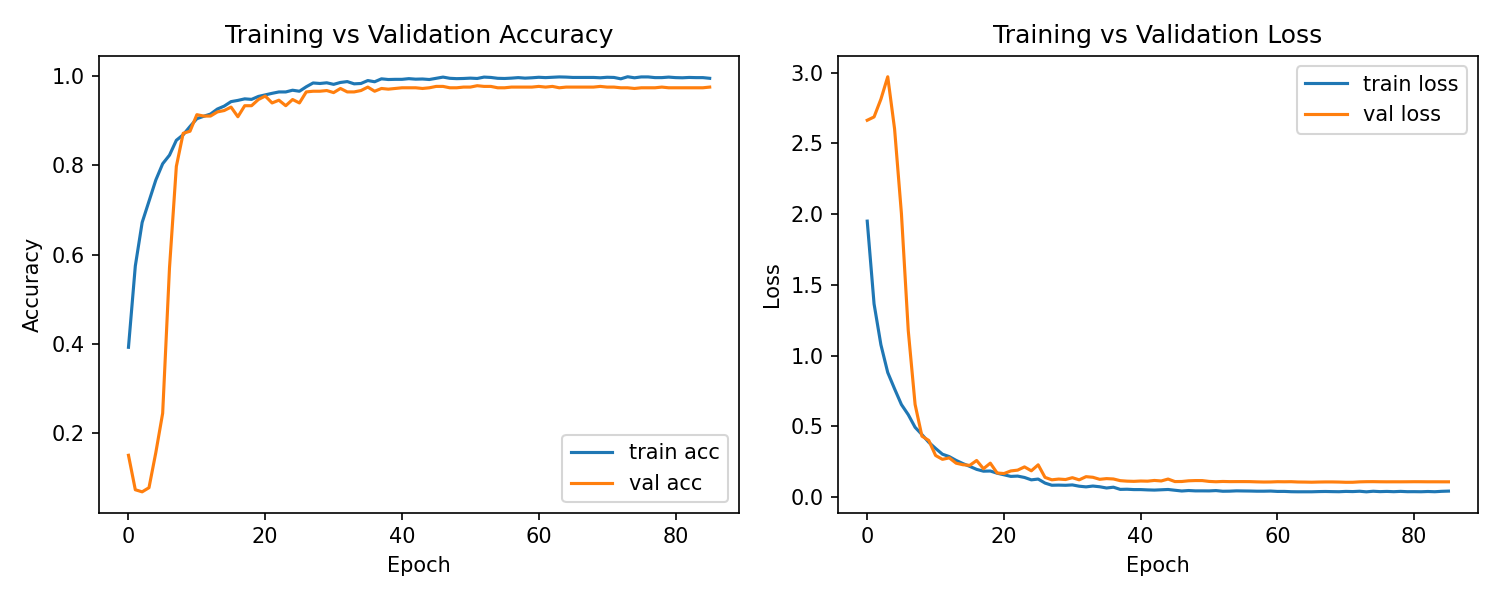
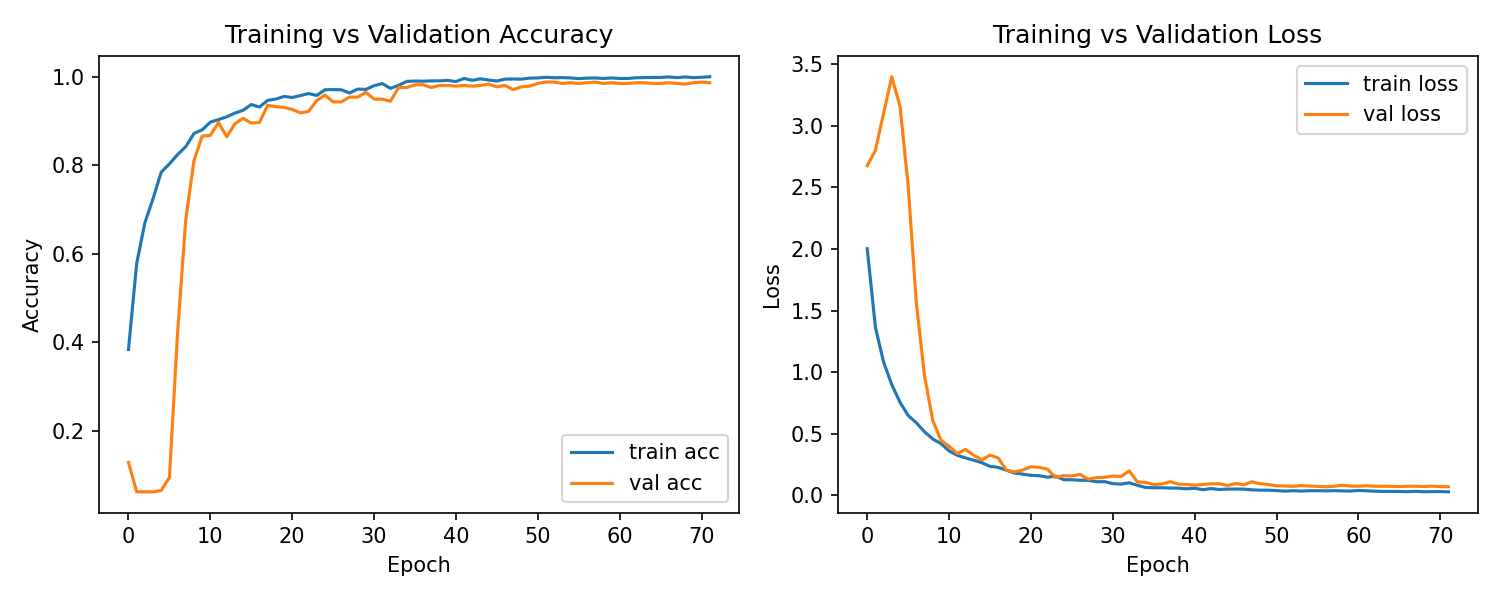
pridany unknown natrenovany

diff --git a/src/cnn/collect_guided_cnn.py b/src/cnn/collect_guided_cnn.py
@@ -11,28 +11,28 @@ SAMPLES_PER_GESTURE = 80          # number of samples per gesture
 # LIST OF GESTURES (LABEL, HAND, DESCRIPTION)
 GESTURES = [
     # LEFT HAND
-    {"label": "FIST_L",     "hand": "Left",  "desc": "LEFT - Fist"},
-    {"label": "OPEN_L",     "hand": "Left",  "desc": "LEFT - Open hand"},
-    {"label": "PEACE_L",    "hand": "Left",  "desc": "LEFT - Peace V"},
-    {"label": "OK_L",       "hand": "Left",  "desc": "LEFT - OK sign"},
-    {"label": "POINT_L",    "hand": "Left",  "desc": "LEFT - Point finger"},
-    {"label": "MIDDLE_L",   "hand": "Left",  "desc": "LEFT - Middle finger"},
+    # {"label": "FIST_L",     "hand": "Left",  "desc": "LEFT - Fist"},
+    # {"label": "OPEN_L",     "hand": "Left",  "desc": "LEFT - Open hand"},
+    # {"label": "PEACE_L",    "hand": "Left",  "desc": "LEFT - Peace V"},
+    # {"label": "OK_L",       "hand": "Left",  "desc": "LEFT - OK sign"},
+    # {"label": "POINT_L",    "hand": "Left",  "desc": "LEFT - Point finger"},
+    # {"label": "MIDDLE_L",   "hand": "Left",  "desc": "LEFT - Middle finger"},
 
-    # RIGHT HAND
-    {"label": "FIST_R",     "hand": "Right", "desc": "RIGHT - Fist"},
-    {"label": "OPEN_R",     "hand": "Right", "desc": "RIGHT - Open hand"},
-    {"label": "PEACE_R",    "hand": "Right", "desc": "RIGHT - Peace V"},
-    {"label": "OK_R",       "hand": "Right", "desc": "RIGHT - OK sign"},
-    {"label": "POINT_R",    "hand": "Right", "desc": "RIGHT - Point finger"},
-    {"label": "MIDDLE_R",   "hand": "Right", "desc": "RIGHT - Middle finger"},
+    # # RIGHT HAND
+    # {"label": "FIST_R",     "hand": "Right", "desc": "RIGHT - Fist"},
+    # {"label": "OPEN_R",     "hand": "Right", "desc": "RIGHT - Open hand"},
+    # {"label": "PEACE_R",    "hand": "Right", "desc": "RIGHT - Peace V"},
+    # {"label": "OK_R",       "hand": "Right", "desc": "RIGHT - OK sign"},
+    # {"label": "POINT_R",    "hand": "Right", "desc": "RIGHT - Point finger"},
+    # {"label": "MIDDLE_R",   "hand": "Right", "desc": "RIGHT - Middle finger"},
 
-    # LIKE / DISLIKE LEFT HAND
-    {"label": "LIKE_L",     "hand": "Left",  "desc": "LEFT - Like (thumb up)"},
-    {"label": "DISLIKE_L",  "hand": "Left",  "desc": "LEFT - Dislike (thumb down)"},
+    # # LIKE / DISLIKE LEFT HAND
+    # {"label": "LIKE_L",     "hand": "Left",  "desc": "LEFT - Like (thumb up)"},
+    # {"label": "DISLIKE_L",  "hand": "Left",  "desc": "LEFT - Dislike (thumb down)"},
 
-    # LIKE / DISLIKE RIGHT HAND
-    {"label": "LIKE_R",     "hand": "Right", "desc": "RIGHT - Like (thumb up)"},
-    {"label": "DISLIKE_R",  "hand": "Right", "desc": "RIGHT - Dislike (thumb down)"},
+    # # LIKE / DISLIKE RIGHT HAND
+    # {"label": "LIKE_R",     "hand": "Right", "desc": "RIGHT - Like (thumb up)"},
+    # {"label": "DISLIKE_R",  "hand": "Right", "desc": "RIGHT - Dislike (thumb down)"},
 
     # UNKNOWN - ANY RANDOM / WRONG / NO HAND
     {"label": "UNKNOWN",    "hand": "Any",   "desc": "UNKNOWN - random gesture or no hand"},

diff --git a/src/cnn/train_cnn.py b/src/cnn/train_cnn.py
@@ -26,15 +26,6 @@ TRAINING_CURVES_FIG   = os.path.join(REPORTS_DIR, "training_curves.png")
 CONFUSION_MATRIX_FIG  = os.path.join(REPORTS_DIR, "confusion_matrix.png")
 CLASS_REPORT_TXT      = os.path.join(REPORTS_DIR, "classification_report.txt")
 
-# ===== NASTAVENIA =====
-FILENAME = "data.csv"
-MODEL_FILE = "gesture_cnn.h5"
-LABELS_FILE = "gesture_cnn_labels.pkl"
-
-TRAINING_CURVES_FIG = "training_curves.png"
-CONFUSION_MATRIX_FIG = "confusion_matrix.png"
-CLASS_REPORT_TXT = "classification_report.txt"
-
 np.random.seed(42)
 tf.random.set_seed(42)
 
